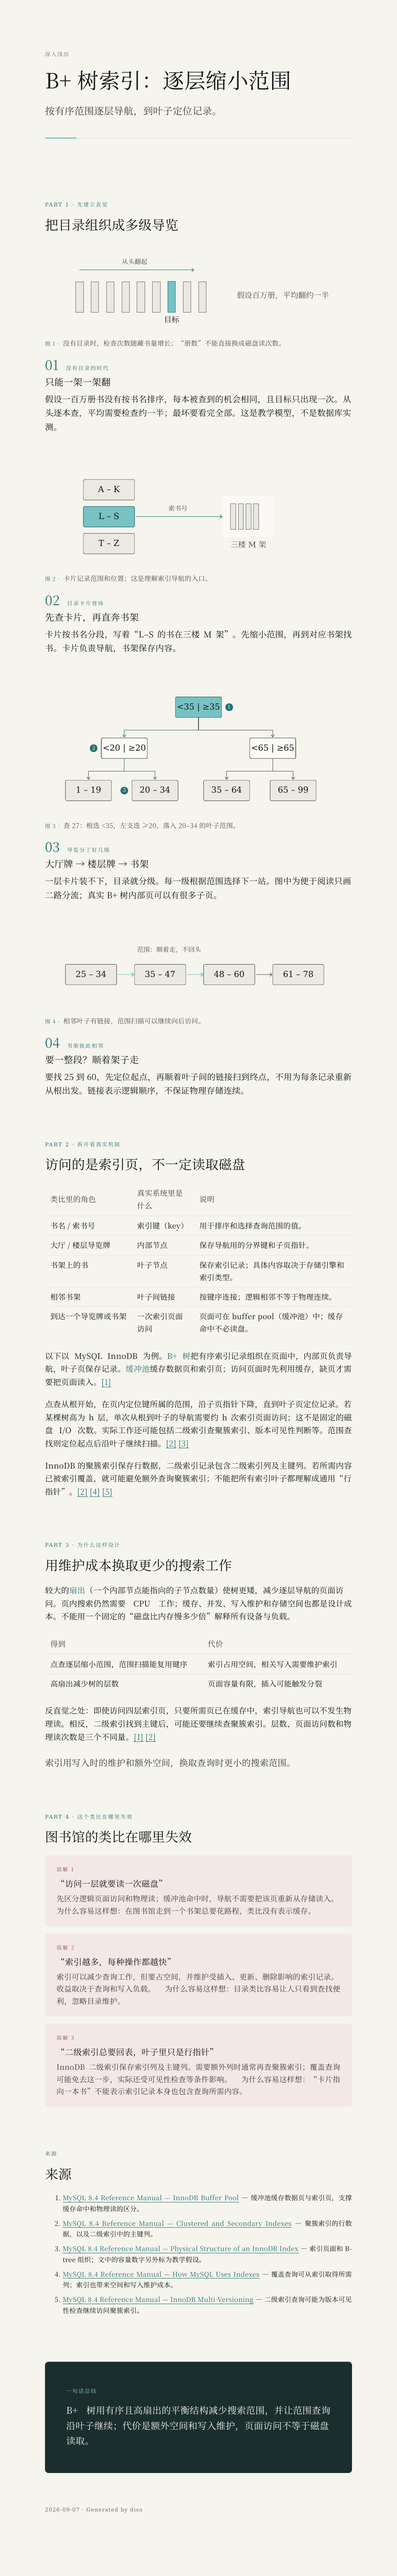
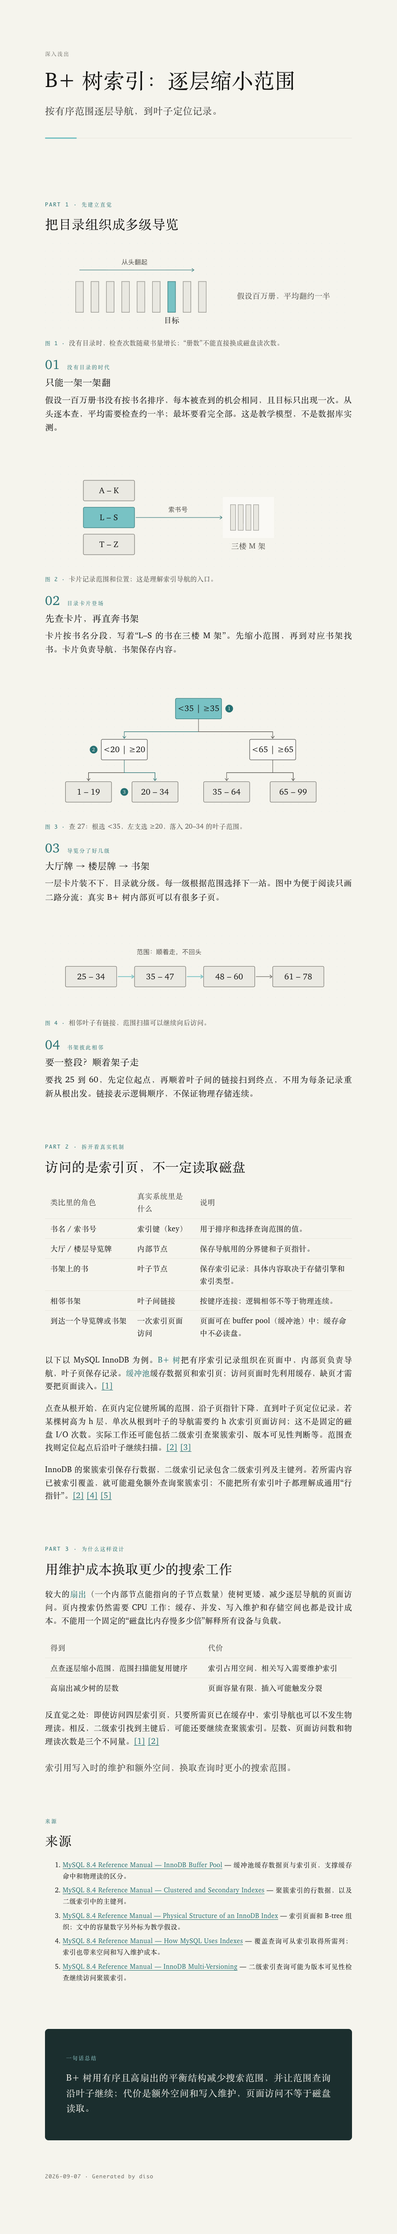
Simplify skill instructions and drop the analogy-limits section
Condense SKILL.md to a compact output contract, remove the p4
misconception/limit section from the builder, validator and docs,
and refresh the example output.

diff --git a/examples/diso-btree-index.html b/examples/diso-btree-index.html
@@ -212,7 +212,6 @@
 <a href="#p1"><span>先建立直觉</span></a>
 <a href="#p2"><span>拆开看真实机制</span></a>
 <a href="#p3"><span>为什么这样设计</span></a>
-<a href="#p4"><span>这个类比在哪里失效</span></a>
 <a href="#sources"><span>来源</span></a>
 <a href="#takeaway"><span>一句话总结</span></a>
 </nav>
@@ -392,13 +391,6 @@
 <table><thead><tr><th>得到</th><th>代价</th></tr></thead><tbody><tr><td>点查逐层缩小范围，范围扫描能复用键序</td><td>索引占用空间，相关写入需要维护索引</td></tr><tr><td>高扇出减少树的层数</td><td>页面容量有限，插入可能触发分裂</td></tr></tbody></table>
 <p>反直觉之处：即使访问四层索引页，只要所需页已在缓存中，索引导航也可以不发生物理读。相反，二级索引找到主键后，可能还要继续查聚簇索引。层数、页面访问数和物理读次数是三个不同量。<a href="#sources">[1]</a> <a href="#sources">[2]</a></p>
 <blockquote>索引用写入时的维护和额外空间，换取查询时更小的搜索范围。</blockquote>
-</section>
-<section class="part" id="p4">
-<div class="part-eyebrow">Part 4 · 这个类比在哪里失效</div>
-<h2>图书馆的类比在哪里失效</h2>
-<div class="callout"><span class="callout-label">误解 1</span><h3>“访问一层就要读一次磁盘”</h3><p>先区分逻辑页面访问和物理读；缓冲池命中时，导航不需要把该页重新从存储读入。 为什么容易这样想：在图书馆走到一个书架总要花路程，类比没有表示缓存。</p></div>
-<div class="callout"><span class="callout-label">误解 2</span><h3>“索引越多，每种操作都越快”</h3><p>索引可以减少查询工作，但要占空间，并维护受插入、更新、删除影响的索引记录。收益取决于查询和写入负载。 为什么容易这样想：目录类比容易让人只看到查找便利，忽略目录维护。</p></div>
-<div class="callout"><span class="callout-label">误解 3</span><h3>“二级索引总要回表，叶子里只是行指针”</h3><p>InnoDB 二级索引保存索引列及主键列。需要额外列时通常再查聚簇索引；覆盖查询可能免去这一步，实际还受可见性检查等条件影响。 为什么容易这样想：“卡片指向一本书”不能表示索引记录本身也包含查询所需内容。</p></div>
 </section>
 <section class="part" id="sources">
 <div class="part-eyebrow">来源</div>

diff --git a/scripts/build.py b/scripts/build.py
@@ -17,19 +17,18 @@ LABELS = {
     "en": {
         "site": "diso / Plain, Not Shallow", "contents": "Contents", "figure": "Fig.",
         "p1": "Build the intuition", "p2": "The real mechanism",
-        "p3": "Why designed this way", "p4": "Where the analogy breaks",
+        "p3": "Why designed this way",
         "analogy": "Role in the analogy", "component": "Real component", "note": "Note",
-        "misconception": "Misconception", "reason": "Why this seems plausible",
         "sources": "Sources", "takeaway": "One-sentence summary", "cheatsheet": "Cheat sheet",
     },
     "zh": {
         "site": "深入浅出", "contents": "目录", "figure": "图",
-        "p1": "先建立直觉", "p2": "拆开看真实机制", "p3": "为什么这样设计", "p4": "这个类比在哪里失效",
+        "p1": "先建立直觉", "p2": "拆开看真实机制", "p3": "为什么这样设计",
         "analogy": "类比里的角色", "component": "真实系统里是什么", "note": "说明",
-        "misconception": "误解", "reason": "为什么容易这样想",
         "sources": "来源", "takeaway": "一句话总结", "cheatsheet": "速查卡",
     },
 }
+# Accept retired section fields so existing JSON remains rebuildable.
 FIELDS = {"title", "lang", "mode", "date", "essence", "takeaway", "steps", "mapping",
           "mechanism_html", "tradeoffs_html", "misconceptions", "kid_mechanism", "kid_boundary",
           "deep_html", "deep_title", "cheatsheet_html", "sources", "labels", "headings"}
@@ -75,13 +74,15 @@ def render(data, mode=None):
         raise ValueError("mode must be kid, standard or deep")
     language = lang.lower().split("-")[0]
     overrides = data.get("labels", {})
-    object_fields(overrides, LABELS["en"].keys(), "labels")
+    object_fields(overrides, LABELS["en"].keys() | {"p4", "misconception", "reason"}, "labels")
+    overrides = {key: value for key, value in overrides.items() if key in LABELS["en"]}
     if language not in LABELS and overrides.keys() != LABELS["en"].keys():
         raise ValueError("languages other than en/zh need a complete localized labels object")
     labels = {**LABELS.get(language, LABELS["en"]), **overrides}
     labels = {key: escape(string(value, f"labels.{key}")) for key, value in labels.items()}
     headings = data.get("headings", {})
     object_fields(headings, {"p1", "p2", "p3", "p4"}, "headings")
+    headings = {key: value for key, value in headings.items() if key != "p4"}
     for key, value in headings.items():
         string(value, f"headings.{key}")
     generated = data.get("date", date.today().isoformat())
@@ -126,14 +127,6 @@ def render(data, mode=None):
 
     if mode != "kid":
         section("p3", string(data.get("tradeoffs_html"), "tradeoffs_html"))
-        reason_sep = "：" if language == "zh" else ": "
-        boundaries = []
-        for i, item in enumerate(list_field(data, "misconceptions"), 1):
-            object_fields(item, {"belief", "truth", "reason"}, "misconception")
-            boundaries.append(f'<div class="callout"><span class="callout-label">{labels["misconception"]} {i}</span><h3>{text_field(item, "belief")}</h3><p>{text_field(item, "truth")} {labels["reason"]}{reason_sep}{text_field(item, "reason")}</p></div>')
-        section("p4", "\n".join(boundaries))
-    else:
-        section("p4", f'<div class="callout"><p>{text_field(data, "kid_boundary")}</p></div>')
     if mode == "deep" and data.get("cheatsheet_html"):
         section("cheatsheet", string(data["cheatsheet_html"], "cheatsheet_html"))
 

diff --git a/tests/test_pipeline.py b/tests/test_pipeline.py
@@ -167,17 +167,29 @@ class PipelineTests(unittest.TestCase):
         self.assertRejected(self.inject_svg('<rect x="4" y="4" width="160" height="64" fill="#78c2c4"/>' * 2), "focus nodes")
         self.assertRejected(self.inject_svg('<circle r="12" fill="#267072" cx="24" cy="24"/>' * 7), "sequence dots")
 
-    def test_modes_keep_mapping_boundaries_sources_and_matching_toc(self):
+    def test_modes_keep_mapping_sources_and_matching_toc(self):
         for mode in ("kid", "standard", "deep"):
             with self.subTest(mode):
                 page = render(self.data, mode)
                 self.assertClean(page)
                 nodes = list(parse_html(page).root.walk())
                 ids = {n.attrs.get("id") for n in nodes}
-                self.assertTrue({"p1", "p2", "p4", "sources", "takeaway"} <= ids)
+                self.assertTrue({"p1", "p2", "sources", "takeaway"} <= ids)
+                self.assertNotIn("p4", ids)
+                self.assertNotIn("#p4", page)
                 self.assertEqual("p3" in ids, mode != "kid")
                 self.assertEqual(any(n.tag == "details" for n in nodes), mode == "deep")
                 self.assertEqual("N ≈ L" in page, mode == "deep")
+
+    def test_retired_section_fields_are_ignored_in_all_modes(self):
+        legacy = copy.deepcopy(self.data)
+        legacy.update(misconceptions=[{"belief": "retired"}], kid_boundary="retired")
+        legacy["headings"]["p4"] = "retired"
+        legacy["labels"] = {"p4": "retired", "reason": "retired", "misconception": "retired"}
+        for mode in ("kid", "standard", "deep"):
+            with self.subTest(mode=mode):
+                self.assertEqual(render(legacy, mode), render(self.data, mode))
+                self.assertClean(render(legacy, mode))
 
     def test_plain_fields_are_escaped_once_and_placeholders_stay_literal(self):
         data = copy.deepcopy(self.data)
@@ -196,7 +208,6 @@ class PipelineTests(unittest.TestCase):
         data["lang"] = "en"
         self.assertClean(render(data))
         self.assertIn('aria-label="Contents"', render(data))
-        self.assertIn("Why this seems plausible: ", render(data))
         data["lang"] = "ja"
         with self.assertRaises(ValueError):
             render(data)

diff --git a/scripts/check.py b/scripts/check.py
@@ -28,7 +28,7 @@ def check_structure(document, nodes, ids, result):
     mode = html.attrs.get("data-mode", "") if html else ""
     if mode not in {"kid", "standard", "deep"}:
         result.error(1, "HTML data-mode must be kid, standard or deep")
-    expected = {"p1", "p2", "p4", "takeaway", "sources"} | ({"p3"} if mode != "kid" else set())
+    expected = {"p1", "p2", "takeaway", "sources"} | ({"p3"} if mode != "kid" else set())
     for name in expected:
         if name not in ids:
             result.error(0, f"missing required section #{name}")
@@ -57,7 +57,7 @@ def check_structure(document, nodes, ids, result):
         result.error(0, "kid mode omits the full trade-off section")
     if mode == "deep" and not any(n.tag == "details" for n in nodes):
         result.error(0, "deep mode needs a formal description in <details>")
-    for name in ("p2", "p4", "sources"):
+    for name in ("p2", "sources"):
         if name in ids and not ids[name].text().strip():
             result.error(ids[name].line, f"#{name} must not be empty")
 

diff --git a/SKILL.md b/SKILL.md
@@ -1,124 +1,32 @@
 ---
 name: diso
-description: Create a self-contained HTML explainer with an analogy, its mapping to the real mechanism, its limits, source citations, and inline SVG diagrams. Use for /diso followed by a topic, or requests for an illustrated HTML explainer. Ordinary conversational explanations do not need this skill.
+description: Create an illustrated, self-contained HTML explainer for /diso followed by a topic. Ordinary conversational explanations stay in chat.
 ---
 
-# diso — plain, not shallow
+# diso — 深入浅出
 
-Explain like I'm an intelligent adult with zero background in this topic.
+Explain the topic in `$ARGUMENTS` using the Feynman technique and a concrete analogy. Write for an intelligent adult new to the subject, in the request language.
 
-Topic: $ARGUMENTS — or, if that is empty, whatever the user asked to have explained.
+## Output contract
 
-## 1. Core stance: the analogy is the entrance, not the destination
+- Essence → illustrated intuition → analogy-to-component mapping → real mechanism → design trade-offs → sources → mechanism-based takeaway.
+- `--kid`: compact mechanism; omit trade-offs. `--deep`: add formal details with assumptions and optional cheat sheet. Default: standard.
+- The intuition journey has 4–6 steps, at least one substantive inline SVG, and a mapping with at least three rows. Add figures when they explain a relationship.
+- Cite supporting sources for factual claims; label teaching assumptions and derived estimates.
 
-> Delete every analogy from the finished piece. The real mechanism that remains must still stand on its own.
+## Build
 
-1. **Every analogy ships with a mapping** — a table mapping each analogy role to the real component it stands for.
-2. **Every analogy ships with its failure points** — state where it stops holding.
-3. **Never avoid real terminology** — define on first use, then keep using the real term. One concept gets exactly one name across the whole page: never alternate between the analogy name and the real name for the same thing.
-4. **Never trust parametric memory for facts.** Every factual number, date, version, standard clause or named source must be verified before it lands on the page. Drop unverifiable claims; label teaching assumptions and estimates derived from them explicitly. One invented "oh, I see" figure destroys the page's credibility.
+Read [output-template.md](references/output-template.md) for the JSON schema and supported markup. Use [design-tokens.md](references/design-tokens.md) for project-specific styling and diagram geometry; consult SVG snippets as needed.
 
-Tone: adult to adult. The reader is smart, just lacks background. Banned: baby talk, mascots, coaxing exclamations, emoji as punctuation. **What drops is the barrier to entry, not the information density.**
-
-## 2. Depth modes
-
-| Flag | Mode | Layers |
-|---|---|---|
-| `--kid` | concise intuition | 1–2 + compact mapping and real mechanism + one plain-language analogy limit |
-| (default) | standard | All five layers, including analogy limits |
-| `--deep` | deep dive | Standard + formal description (formula / pseudocode / data structure), explicit assumptions and boundary conditions; optional **cheat sheet** |
-
-Every mode includes sources and a mechanism-based takeaway. `--kid` changes depth, not the adult tone. The builder selects the sections and TOC; never manually hide deep content with CSS.
-
-## 3. Choosing the analogy (do this before writing anything)
-
-The whole page rests on this choice, so spend real effort on it. A usable analogy:
-
-- comes from a domain the reader already inhabits physically or socially — not from another technical field;
-- has **at least three roles** that map onto real components, so the mapping table isn't padding;
-- has a **native failure mode** — it must be able to carry the topic's bottleneck, cost, or trade-off. If the analogy can only show the happy path, it will collapse exactly where Layer 4 needs it. Pick another;
-- breaks somewhere *interesting*, giving Layer 5 something real to say.
-
-Generate two or three candidates, test each against the bottleneck, then commit to one and carry it start to finish. **When the topic has no mechanism** — a historical episode, a policy, a contested idea — replace Layer 3 with "what actually happened / what the rule actually says" and keep everything else: the mapping table becomes a claim-to-evidence table.
-
-## 4. Five-layer skeleton
-
-**Layer 1 — one-sentence essence**: holds with zero background, ≤ 30 characters (Chinese) / ≤ 20 words (English), states the working mechanism, no metaphor.
-
-**Layer 2 — intuition journey (4–6 steps)**: one analogy carried start to finish, telling "how people managed before it existed → what happened, step by step". Each step gets 1–2 sentences; add an SVG when it communicates a relationship the prose cannot. Keep at least one substantive figure in the journey.
-
-**Layer 3 — the real mechanism**: first the analogy→component mapping table, then the real flow with real terms and structures. Target: the reader can retell "what goes in → what happens inside → what comes out".
-
-**Layer 4 — why designed this way**: a trade-off table (gained / cost) plus at least one "oh, I see" moment: a counterintuitive fact, an order-of-magnitude gap, or a deliberate sacrifice. When the story is an evolution (old design → new design), show it as a diff block — before/after with `+` / `-` lines — instead of versus cards.
-
-**Layer 5 — where the analogy breaks & misconceptions**: ~3 items, each: the misconception → the truth → why people think this way. In `--kid`, keep one specific limit in plain language instead.
-
-**Smallest-view test**: every block earns its size. If a sentence or a small table makes the point, do not inflate it into a stats row, a versus pair, or a full-width SVG. A step whose figure would only re-draw the sentence above it keeps the sentence and drops the figure.
-
-**Ending — one-sentence summary**: repeatable verbatim, contains the mechanism, not the metaphor. In Chinese pages the takeaway block's eyebrow reads 「一句话总结」.
-
-**Cheat sheet** (`--deep` only, optional): a compact final section for later reference — the term mapping and the formal description, restated tightly using tables and code blocks. No new prose, no new diagrams; it is the page's distillate.
-
-## 5. HTML output
-
-Use `scripts/build.py` to assemble content into `assets/base.html`. That asset is the only stylesheet and document shell; do not copy or edit CSS in generated pages. Read `references/output-template.md` for the JSON schema, localization and SVG snippets, and `references/design-tokens.md` for visual semantics.
-
-The delivered HTML is self-contained: inline SVG, no external dependencies, CDN, JavaScript or runtime build step. It opens on double-click. Passive HTTP(S) citation links are allowed; fetching images, fonts, stylesheets or embedded documents is not. Use the bundled classes; inline styles and extra stylesheets are rejected. Write SVG presentation attributes explicitly, not CSS variables or transforms.
-
-The visual system: parchment `#f5f4ed`, celadon for focus and gains, terracotta for cost and failure, serif weights 400/500, flat surfaces and orthogonal diagrams. The page should read as typeset paper.
-
-## 6. Workflow
-
-1. **Parse** `$ARGUMENTS` for the topic and `--kid` / `--deep`. No topic → ask. No flag → standard. Do not pass the raw topic or arguments to a shell.
-2. **Verify facts.** Check numbers, dates, versions and named sources before writing. Keep a source list with the claim each source supports. Mark teaching assumptions and derived estimates explicitly. Drop unsupported factual claims; do not turn them into “approximate” facts.
-
-   Batch independent source searches and reads. Reuse already-read sources from this task when they support the claim and are current enough. Stop researching once each retained factual claim has adequate evidence; expand research for unresolved claims or conflicting sources.
-3. **Choose the analogy** by §3 and sketch its mapping. If the mapping is thin, choose another.
-4. **Outline the requested depth**, retaining a real mechanism and an analogy limit in every mode. Apply the smallest-view test before generating figures.
-
-   Start with four steps and one substantive diagram; add steps or diagrams when they explain an additional relationship. Write only fields used by the requested mode: standard needs `mechanism_html`, `tradeoffs_html` and `misconceptions`; kid needs `kid_mechanism` and `kid_boundary`; deep extends standard with `deep_title` and `deep_html`. The bundled example contains all modes for testing; each delivered input targets the requested mode.
-5. **Read the authoring and design references**, then write `diso-<topic-slug>.json` in the current workspace. Use a simple filename slug. Plain string fields are escaped by the builder; only fields ending in `_html` and `svg` are markup. Escape code examples inside those markup fields. Localize visible copy and SVG text to the request language.
-6. **Build and validate from the current workspace**, using the installed skill's absolute path:
+Write `diso-<topic-slug>.json` in the user's workspace with only the requested mode's content. Plain fields are escaped; `_html` and `svg` fields contain markup. The builder owns the document shell, stylesheet and TOC.
 
 ```bash
 python3 "${CLAUDE_SKILL_DIR}/scripts/build.py" \
   "diso-<topic-slug>.json" -o "diso-<topic-slug>.html"
 ```
 
-Claude Code substitutes `${CLAUDE_SKILL_DIR}` in this skill body; it is not a shell environment variable you should assume exists in other agents. In another host, resolve the directory containing the loaded `SKILL.md` and substitute that absolute directory in the command. Keep input/output paths in the user's workspace. The scripts resolve their own assets relative to `__file__`, so installation location and shell working directory can differ.
+Python 3.10+, standard library only. Claude Code substitutes `${CLAUDE_SKILL_DIR}`; other hosts use the absolute directory containing this skill. Input and output stay in the user's workspace.
 
-Python 3.10+ is required; there are no third-party dependencies. The JSON `mode` defaults to `standard`; use `kid` or `deep` when requested. A build with any error or warning fails before writing the output. Fix every finding and rebuild; never bypass validation or replace the trusted stylesheet to make a generated page pass.
+The build validates before atomically replacing output; errors and warnings fail the build. Fix the reported JSON fields and rebuild. Standalone `scripts/check.py` checks existing HTML.
 
-The build already runs the full validator. Use standalone `check.py` when inspecting an existing HTML file. After a failed build, patch the reported fields in the JSON and rebuild. Preserve the rest of the researched content and geometry.
-7. **Review §7** and inspect the rendered page when a renderer is available. The validator cannot judge factual support, readability, clipping in every font, or whether an arrow conveys the right relationship.
-
-   Reuse the available browser session, wait for document/font readiness, and inspect desktop and narrow layouts. Bound each browser operation to 15 seconds. On a timeout, capture the error and check any existing screenshot before choosing a targeted retry; report the remaining visual gap when rendering stays unavailable. Deliver the HTML link and a short result after verification. Record elapsed time for research, authoring, build and rendering when investigating slow delivery; distinguish measured script time from model/network latency.
-
-## 7. Quality checklist
-
-`scripts/check.py` checks the supported HTML/SVG vocabulary, exact bundled CSS, resource attributes, palette, orthogonal geometry, marked/rounded node sizes, rectangle/edge grid, accent budgets, accessibility text, TOC and depth structure. Exit 0 means no mechanical findings, not proof of safety or visual correctness. It is a format validator, not a sanitizer for arbitrary untrusted HTML.
-
-It cannot see whether the page is any good. Check these yourself:
-
-- [ ] Delete every analogy in your head — does the remaining substance still teach the mechanism? In standard/deep mode, it must be more than half the substance; in kid mode the compact real mechanism must still stand alone.
-- [ ] Every factual number, date and named source was verified in step 2. The sources section identifies supporting claims; numerical teaching assumptions are labeled.
-- [ ] Diagram ranges, labels, arrow endpoints and the prose agree; check these visually.
-- [ ] One concept = one name throughout. No sentence alternates between the analogy's word and the real term.
-- [ ] The analogy's failure points are written down, and they are specific to this analogy.
-- [ ] In standard/deep mode, at least one genuine "oh, I see" moment — true, not just surprising.
-- [ ] Smallest-view test: no block is larger than its point requires. Every figure adds something its caption doesn't.
-- [ ] Captions add a fact rather than restating the prose.
-- [ ] Tone is colleague-to-colleague throughout — no baby talk, no cheerleading.
-- [ ] The closing sentence is repeatable verbatim and contains the mechanism, not the metaphor.
-
-## Reference files
-
-| File | When to use |
-|---|---|
-| `references/design-tokens.md` | Before generating: palette semantics, component use and SVG rules |
-| `references/output-template.md` | When authoring JSON: schema, mode fields, localization and diagram snippets |
-| `assets/base.html` | Builder-owned stylesheet and shell; no need to copy it into model context |
-| `scripts/build.py` | Assemble and strictly validate a page from JSON |
-| `scripts/check.py` | Validate the final HTML; any finding returns nonzero |
-| `examples/btree-index.json` | A complete, reproducible input supporting all three modes |
-| `examples/diso-btree-index.html` | Finished standard-mode example |
+Inspect the rendered page for readability and diagram correctness when a browser is available, then return the HTML link. The validator checks format; factual and visual quality require review.

diff --git a/references/output-template.md b/references/output-template.md
@@ -16,17 +16,18 @@ See `examples/btree-index.json` for a complete input that can be built in all th
 | `mapping` | At least three rows, each an array of three strings: analogy role, real component, note |
 | `mechanism_html` | Required in standard/deep: real flow, definitions, actual structures |
 | `tradeoffs_html` | Required in standard/deep: gains/costs and a supported counterintuitive insight |
-| `misconceptions` | Required in standard/deep: objects with `belief`, `truth`, `reason` |
-| `kid_mechanism`, `kid_boundary` | Required in kid: compact real mechanism and one specific analogy limit |
+| `kid_mechanism` | Required in kid: compact real mechanism |
 | `deep_title`, `deep_html` | Required in deep: collapsible formal description, assumptions and boundary conditions |
 | `cheatsheet_html` | Optional, emitted only in deep; compact tables/code, no new concepts |
 | `sources` | Required nonempty array of `title`, `note` (claim supported), optional absolute HTTP(S) `url`; books/papers may omit URL |
-| `headings` | Optional `p1`/`p2`/`p3`/`p4` section-title overrides |
+| `headings` | Optional `p1`/`p2`/`p3` section-title overrides |
 | `labels` | Optional UI string overrides; see keys below; complete translations required for languages other than en/zh |
 
-The builder ignores depth-specific content in modes that omit it. A standard page has all five layers and no deep details. Kid keeps the journey, compact mapping/mechanism and a short limit; it omits full trade-offs. All modes retain sources and a takeaway. Source checking remains the author's responsibility; the builder does not browse or execute input.
+The builder ignores depth-specific content in modes that omit it. A standard page contains the intuition, mapping, mechanism and trade-offs. Kid keeps the journey and compact mapping/mechanism. All modes retain sources and a takeaway. Source checking remains the author's responsibility; the builder does not browse or execute input.
 
-`labels` keys: `site`, `contents`, `figure`, `p1`, `p2`, `p3`, `p4`, `analogy`, `component`, `note`, `misconception`, `reason`, `sources`, `takeaway`, `cheatsheet`.
+`labels` keys: `site`, `contents`, `figure`, `p1`, `p2`, `p3`, `analogy`, `component`, `note`, `sources`, `takeaway`, `cheatsheet`.
+
+Legacy `misconceptions`, `kid_boundary`, `headings.p4` and the labels `p4`/`misconception`/`reason` are accepted and ignored when rebuilding older inputs.
 
 ## Markup fields
 
@@ -57,12 +58,10 @@ The author must translate every visible content string and SVG label into the re
 | Part 1 · Build the intuition | Part 1 · 先建立直觉 |
 | Part 2 · The real mechanism | Part 2 · 拆开看真实机制 |
 | Part 3 · Why designed this way | Part 3 · 为什么这样设计 |
-| Part 4 · Where the analogy breaks | Part 4 · 这个类比在哪里失效 |
 | Fig. 1 · | 图 1 · |
 | Role in the analogy / What it really is / Note | 类比里的角色 / 真实系统里是什么 / 说明 |
 | One layer deeper: … | 再深一层：… |
 | Gained / Cost | 得到 / 代价 |
-| Misconception 1 | 误解 1 |
 | One-sentence summary (takeaway eyebrow) | 一句话总结 |
 | Cheat sheet (`--deep`, optional) | 速查卡 |
 | Sources / Contents | 来源 / 目录 |

diff --git a/README.md b/README.md
@@ -1,6 +1,6 @@
 # diso — 深入浅出
 
-A Claude skill that turns a topic into an illustrated, self-contained HTML page. Start with an analogy, understand the real mechanism, and learn where the analogy breaks.
+A Claude skill that turns a topic into an illustrated, self-contained HTML page. Start with an analogy, understand the real mechanism, and explore its design trade-offs.
 
 Hand-drawn SVG diagrams. No JavaScript or external dependencies. Open in any browser.
 
@@ -31,9 +31,9 @@ For a project-only installation, clone into `.claude/skills/diso` inside your pr
 
 | Mode | Output |
 |---|---|
-| Default | Essence → illustrated intuition → real mechanism → design rationale → analogy limits |
-| `--kid` | A shorter explanation with a simple mechanism and analogy limit |
-| `--deep` | All five layers plus formal details, assumptions and boundary conditions |
+| Default | Essence → illustrated intuition → real mechanism → design rationale |
+| `--kid` | A shorter explanation with an illustrated intuition and compact mechanism |
+| `--deep` | Standard plus formal details, assumptions and boundary conditions |
 
 Every mode includes sources and follows the input language. The skill writes `diso-<topic>.json` and `diso-<topic>.html` to your working directory. Open the HTML directly; no server is needed.
 

diff --git a/references/design-tokens.md b/references/design-tokens.md
@@ -237,7 +237,7 @@ Text on dark: body in parchment, labels and keywords in `--brand-light`, warning
 | An evolution: old design → new design | `.diff` (add = celadon ink, remove = terracotta ink) |
 | Lift a block above body text | ivory fill + 8px radius, no accent edge |
 | A sentence worth quoting verbatim | `blockquote`, one size up, no side bar |
-| Where the analogy breaks / misconceptions | `.callout` — terracotta wash + terracotta-ink label |
+| Cost or risk callouts | `.callout` — terracotta wash + terracotta-ink label |
 | Key node in a diagram | `#78C2C4` solid + `#267072` stroke, 1–2 per figure |
 | A node that fails / gets eliminated | `#C47A78` solid + `#8C4644` stroke, ≤1, never beside a celadon focus |
 | Execution order in a diagram | celadon-ink sequence dots, ≤6 per figure |
